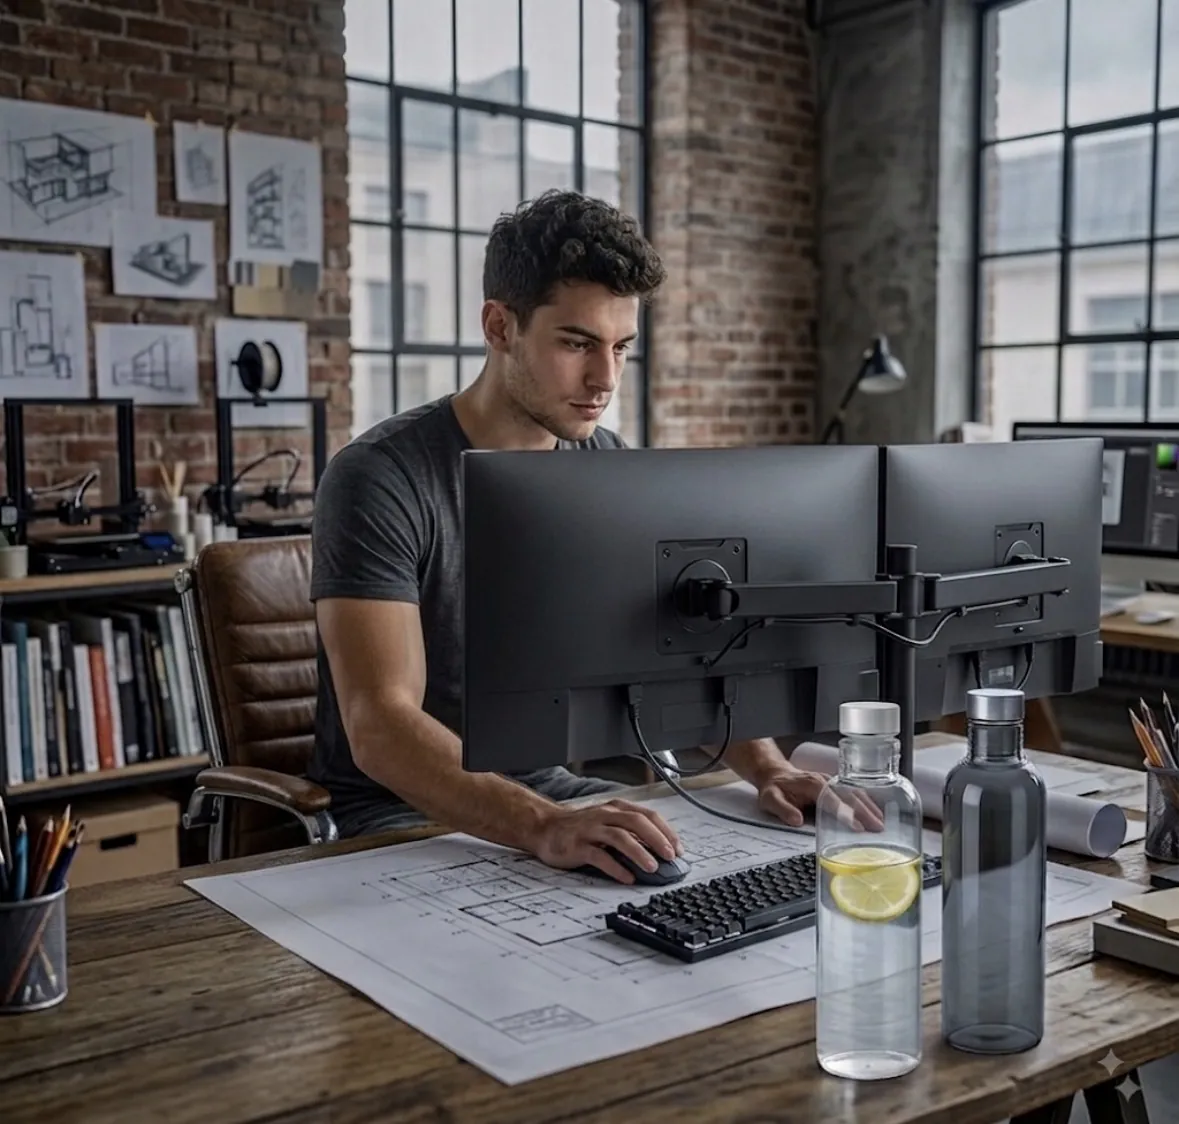
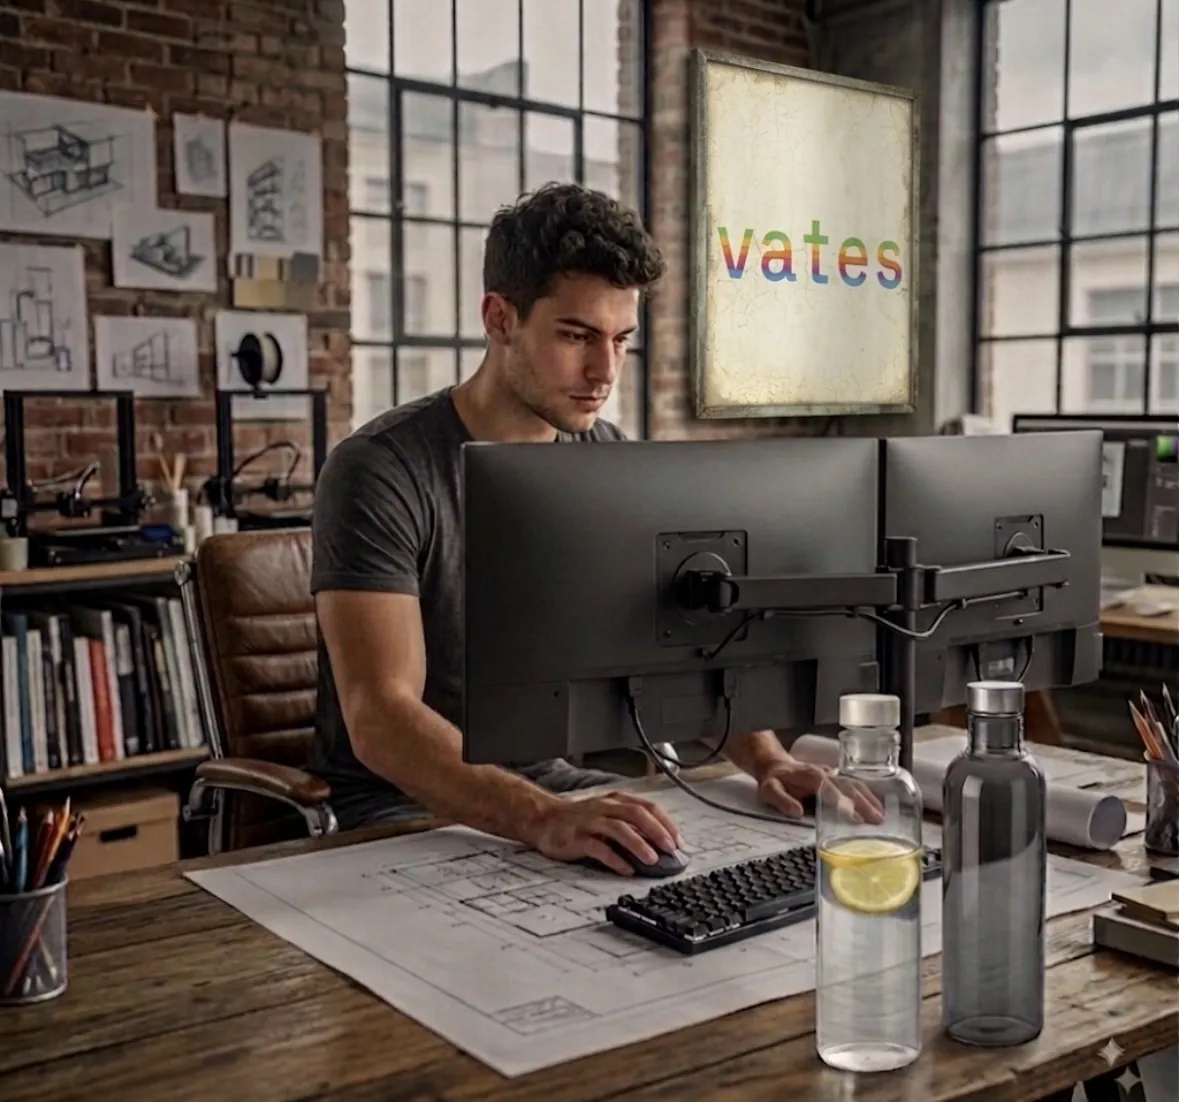
Hang the wordmark in the product photograph
Same workbench scene, with the vates wordmark framed on the wall behind
the desk. 1179x1102; the stage is width-driven, so the shorter frame
needs no layout change.

The <img> height attribute and the alt text follow the new photograph —
the alt now mentions the wordmark on the wall, since it is the one piece
of the scene carrying the brand.

Claude-Session: https://claude.ai/code/session_016ZT3g4Mkai28siyGTP97x7

diff --git a/index.html b/index.html
@@ -83,8 +83,8 @@
           <div class="product__stage">
             <picture>
               <source srcset="assets/img/no-01.webp" type="image/webp">
-              <img src="assets/img/no-01.jpg" width="1179" height="1124"
-                   alt="Two No. 01 bottles — one clear, filled with lemon water, one smoke grey — on a workbench, in front of a designer at work over drawings and a keyboard.">
+              <img src="assets/img/no-01.jpg" width="1179" height="1102"
+                   alt="Two No. 01 bottles — one clear, filled with lemon water, one smoke grey — on a workbench, in front of a designer at work over drawings and a keyboard, the vates wordmark framed on the wall behind.">
             </picture>
           </div>
         </div>
